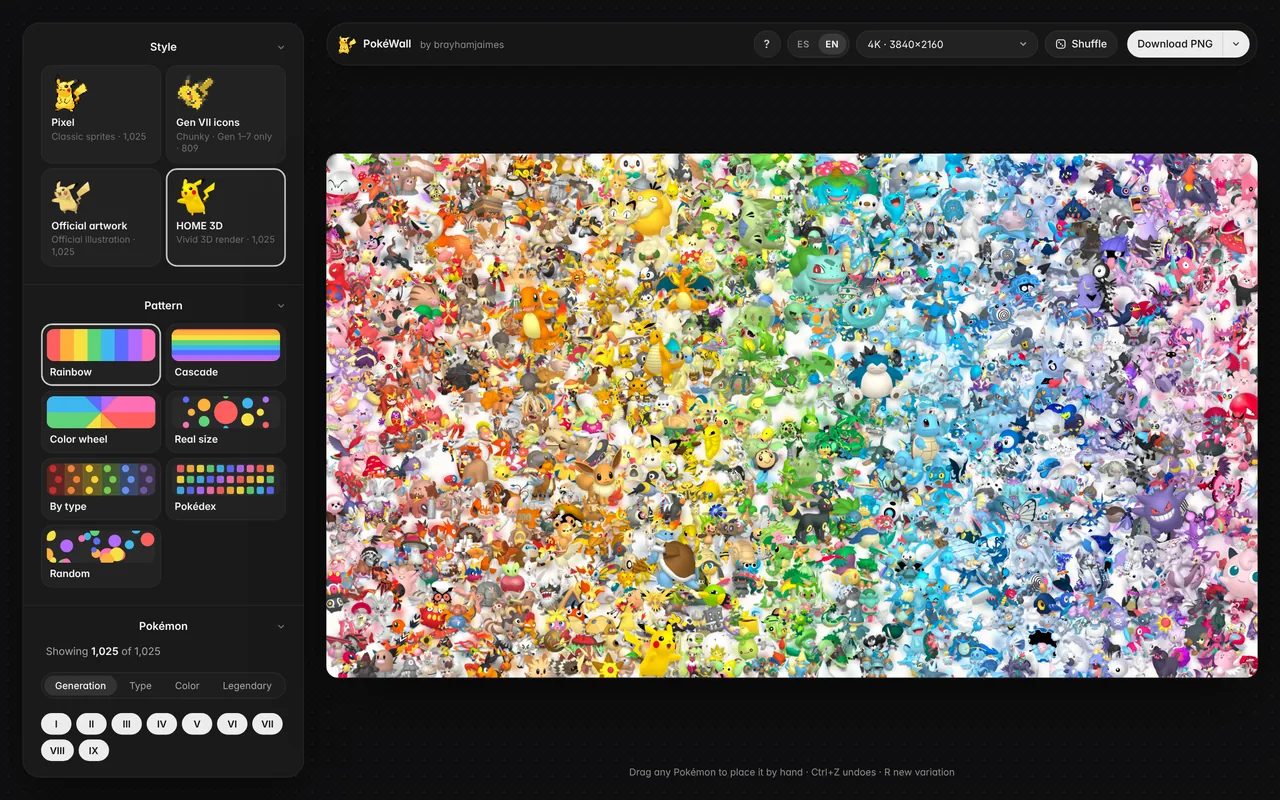
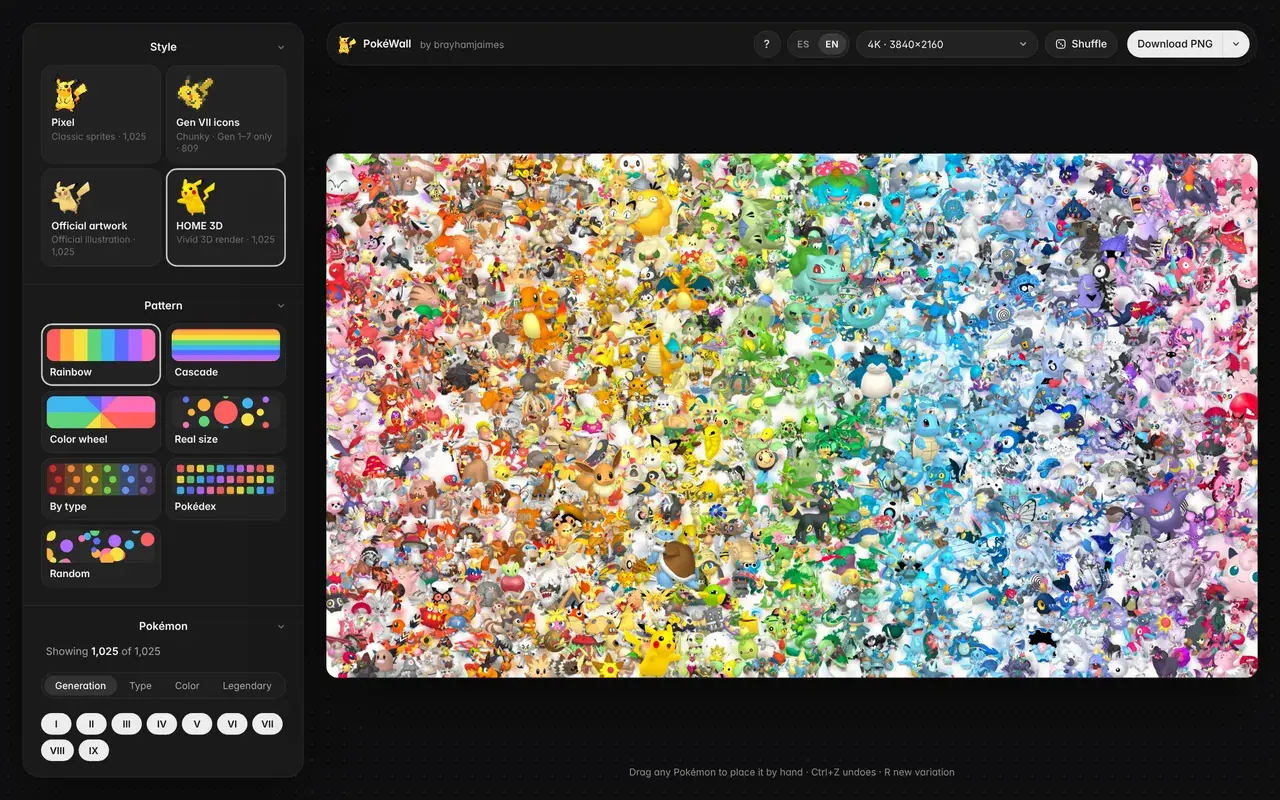
Perf: responsive collage images (srcset) + recompress
- Add 760w mobile variants for all six collage images and serve them via
  srcset/sizes, so mobile no longer downloads 1280-1600px files for a
  ~600px slot (PokéWall drops 220KB -> 72KB on mobile).
- Recompress the desktop variants too (e.g. CEMEX 52KB -> 28KB) and make
  the LCP preload responsive (imagesrcset).
- Convert the decorative CD disc from a 40KB PNG to an 8KB WebP.

Changed region(s): [[0.7188, 0.5938, 0.75, 0.625], [0.5, 0.3438, 0.5312, 0.375]]

diff --git a/index.html b/index.html
@@ -107,7 +107,7 @@
   <link rel="preconnect" href="https://fonts.gstatic.com" crossorigin />
   <link rel="stylesheet" href="https://fonts.googleapis.com/css2?family=Caveat:wght@500;600;700&family=JetBrains+Mono:wght@400;600&display=swap" media="print" onload="this.media='all'" />
   <noscript><link rel="stylesheet" href="https://fonts.googleapis.com/css2?family=Caveat:wght@500;600;700&family=JetBrains+Mono:wght@400;600&display=swap" /></noscript>
-  <link rel="preload" as="image" href="assets/images/proj-cemex-driver.webp" fetchpriority="high" />
+  <link rel="preload" as="image" href="assets/images/proj-cemex-driver.webp" imagesrcset="assets/images/proj-cemex-driver-sm.webp 760w, assets/images/proj-cemex-driver.webp 1280w" imagesizes="(max-width: 700px) 92vw, 48vw" fetchpriority="high" />
   <link rel="preconnect" href="https://api.fontshare.com" crossorigin />
   <link rel="stylesheet" href="https://api.fontshare.com/v2/css?f[]=satoshi@400,500,600,700,800,900&display=swap" media="print" onload="this.media='all'" />
   <noscript><link rel="stylesheet" href="https://api.fontshare.com/v2/css?f[]=satoshi@400,500,600,700,800,900&display=swap" /></noscript>
@@ -178,46 +178,46 @@
         <a class="card__go" href="work-cemex.html" aria-label="Open CEMEX Driver App case study"></a>
         <span class="tape tape--tr"></span>
         <span class="label label--cemex">Driver app Cemex</span>
-        <img src="assets/images/proj-cemex-driver.webp" alt="Driver app Cemex" width="1600" height="900" fetchpriority="high" decoding="async" />
+        <img src="assets/images/proj-cemex-driver.webp" srcset="assets/images/proj-cemex-driver-sm.webp 760w, assets/images/proj-cemex-driver.webp 1280w" sizes="(max-width: 700px) 92vw, 48vw" alt="Driver app Cemex" width="1600" height="900" fetchpriority="high" decoding="async" />
       </article>
 
       <article class="card card--identity card--link reveal" style="--rot:1.5deg;">
         <a class="card__go" href="work-ux-identity.html" aria-label="Open UX Team Identity case study"></a>
         <span class="tape tape--tl"></span>
         <span class="label label--identity">UX team Identity</span>
-        <img src="assets/images/proj-ux-identity.webp" alt="UX team Identity" width="1600" height="1067" loading="lazy" />
+        <img src="assets/images/proj-ux-identity.webp" srcset="assets/images/proj-ux-identity-sm.webp 760w, assets/images/proj-ux-identity.webp 1280w" sizes="(max-width: 700px) 92vw, 48vw" alt="UX team Identity" width="1600" height="1067" loading="lazy" />
       </article>
 
       <article class="card card--esencoder card--link reveal" style="--rot:-1.5deg;">
         <a class="card__go" href="work-esencoder.html" aria-label="Open Esencoder Agency case study"></a>
         <span class="tape tape--tr"></span>
         <span class="label label--esencoder">Esencoder Agency</span>
-        <img src="assets/images/proj-esencoder.webp" alt="Esencoder Agency" width="1600" height="899" loading="lazy" />
+        <img src="assets/images/proj-esencoder.webp" srcset="assets/images/proj-esencoder-sm.webp 760w, assets/images/proj-esencoder.webp 1280w" sizes="(max-width: 700px) 92vw, 48vw" alt="Esencoder Agency" width="1600" height="899" loading="lazy" />
       </article>
 
       <article class="card card--claro card--link reveal" style="--rot:2deg;">
         <a class="card__go" href="work-claro.html" aria-label="Open Claro Products case study"></a>
         <span class="tape tape--bl"></span>
         <span class="label label--claro">Claro Products</span>
-        <img src="assets/images/proj-claro.webp" alt="Claro Products" width="1040" height="900" loading="lazy" />
+        <img src="assets/images/proj-claro.webp" srcset="assets/images/proj-claro-sm.webp 760w, assets/images/proj-claro.webp 1040w" sizes="(max-width: 700px) 92vw, 48vw" alt="Claro Products" width="1040" height="900" loading="lazy" />
       </article>
 
       <article class="card card--coop card--link reveal" style="--rot:-2deg;">
         <a class="card__go" href="work-coop.html" aria-label="Open COOP case study"></a>
         <span class="tape tape--tl"></span>
         <span class="label label--coop">Coop Project</span>
-        <img src="assets/images/proj-coop.webp" alt="Coop Project" width="1600" height="1046" loading="lazy" />
+        <img src="assets/images/proj-coop.webp" srcset="assets/images/proj-coop-sm.webp 760w, assets/images/proj-coop.webp 1280w" sizes="(max-width: 700px) 92vw, 48vw" alt="Coop Project" width="1600" height="1046" loading="lazy" />
       </article>
 
       <article class="card card--pokewall card--link reveal" style="--rot:1.8deg;">
         <a class="card__go" href="work-pokewall.html" aria-label="Open PokéWall case study"></a>
         <span class="tape tape--tr"></span>
         <span class="label label--pokewall" style="bottom:-10px; right:34px; transform:rotate(3deg);">PokéWall</span>
-        <img src="assets/images/proj-pokewall.webp" alt="PokéWall interface: configuration panel and a rainbow collage of Pokémon" width="1280" height="800" loading="lazy" />
+        <img src="assets/images/proj-pokewall.webp" srcset="assets/images/proj-pokewall-sm.webp 760w, assets/images/proj-pokewall.webp 1280w" sizes="(max-width: 700px) 92vw, 48vw" alt="PokéWall interface: configuration panel and a rainbow collage of Pokémon" width="1280" height="800" loading="lazy" />
       </article>
 
       <div class="cd-disc reveal" aria-hidden="true" style="grid-column:1 / -1;">
-        <img src="assets/decor/cd-placeholder.png" alt="" loading="lazy" />
+        <img src="assets/decor/cd-placeholder.webp" alt="" loading="lazy" />
         <span class="cd-disc__sheen"></span>
         <span class="cd-disc__gloss"></span>
       </div>
